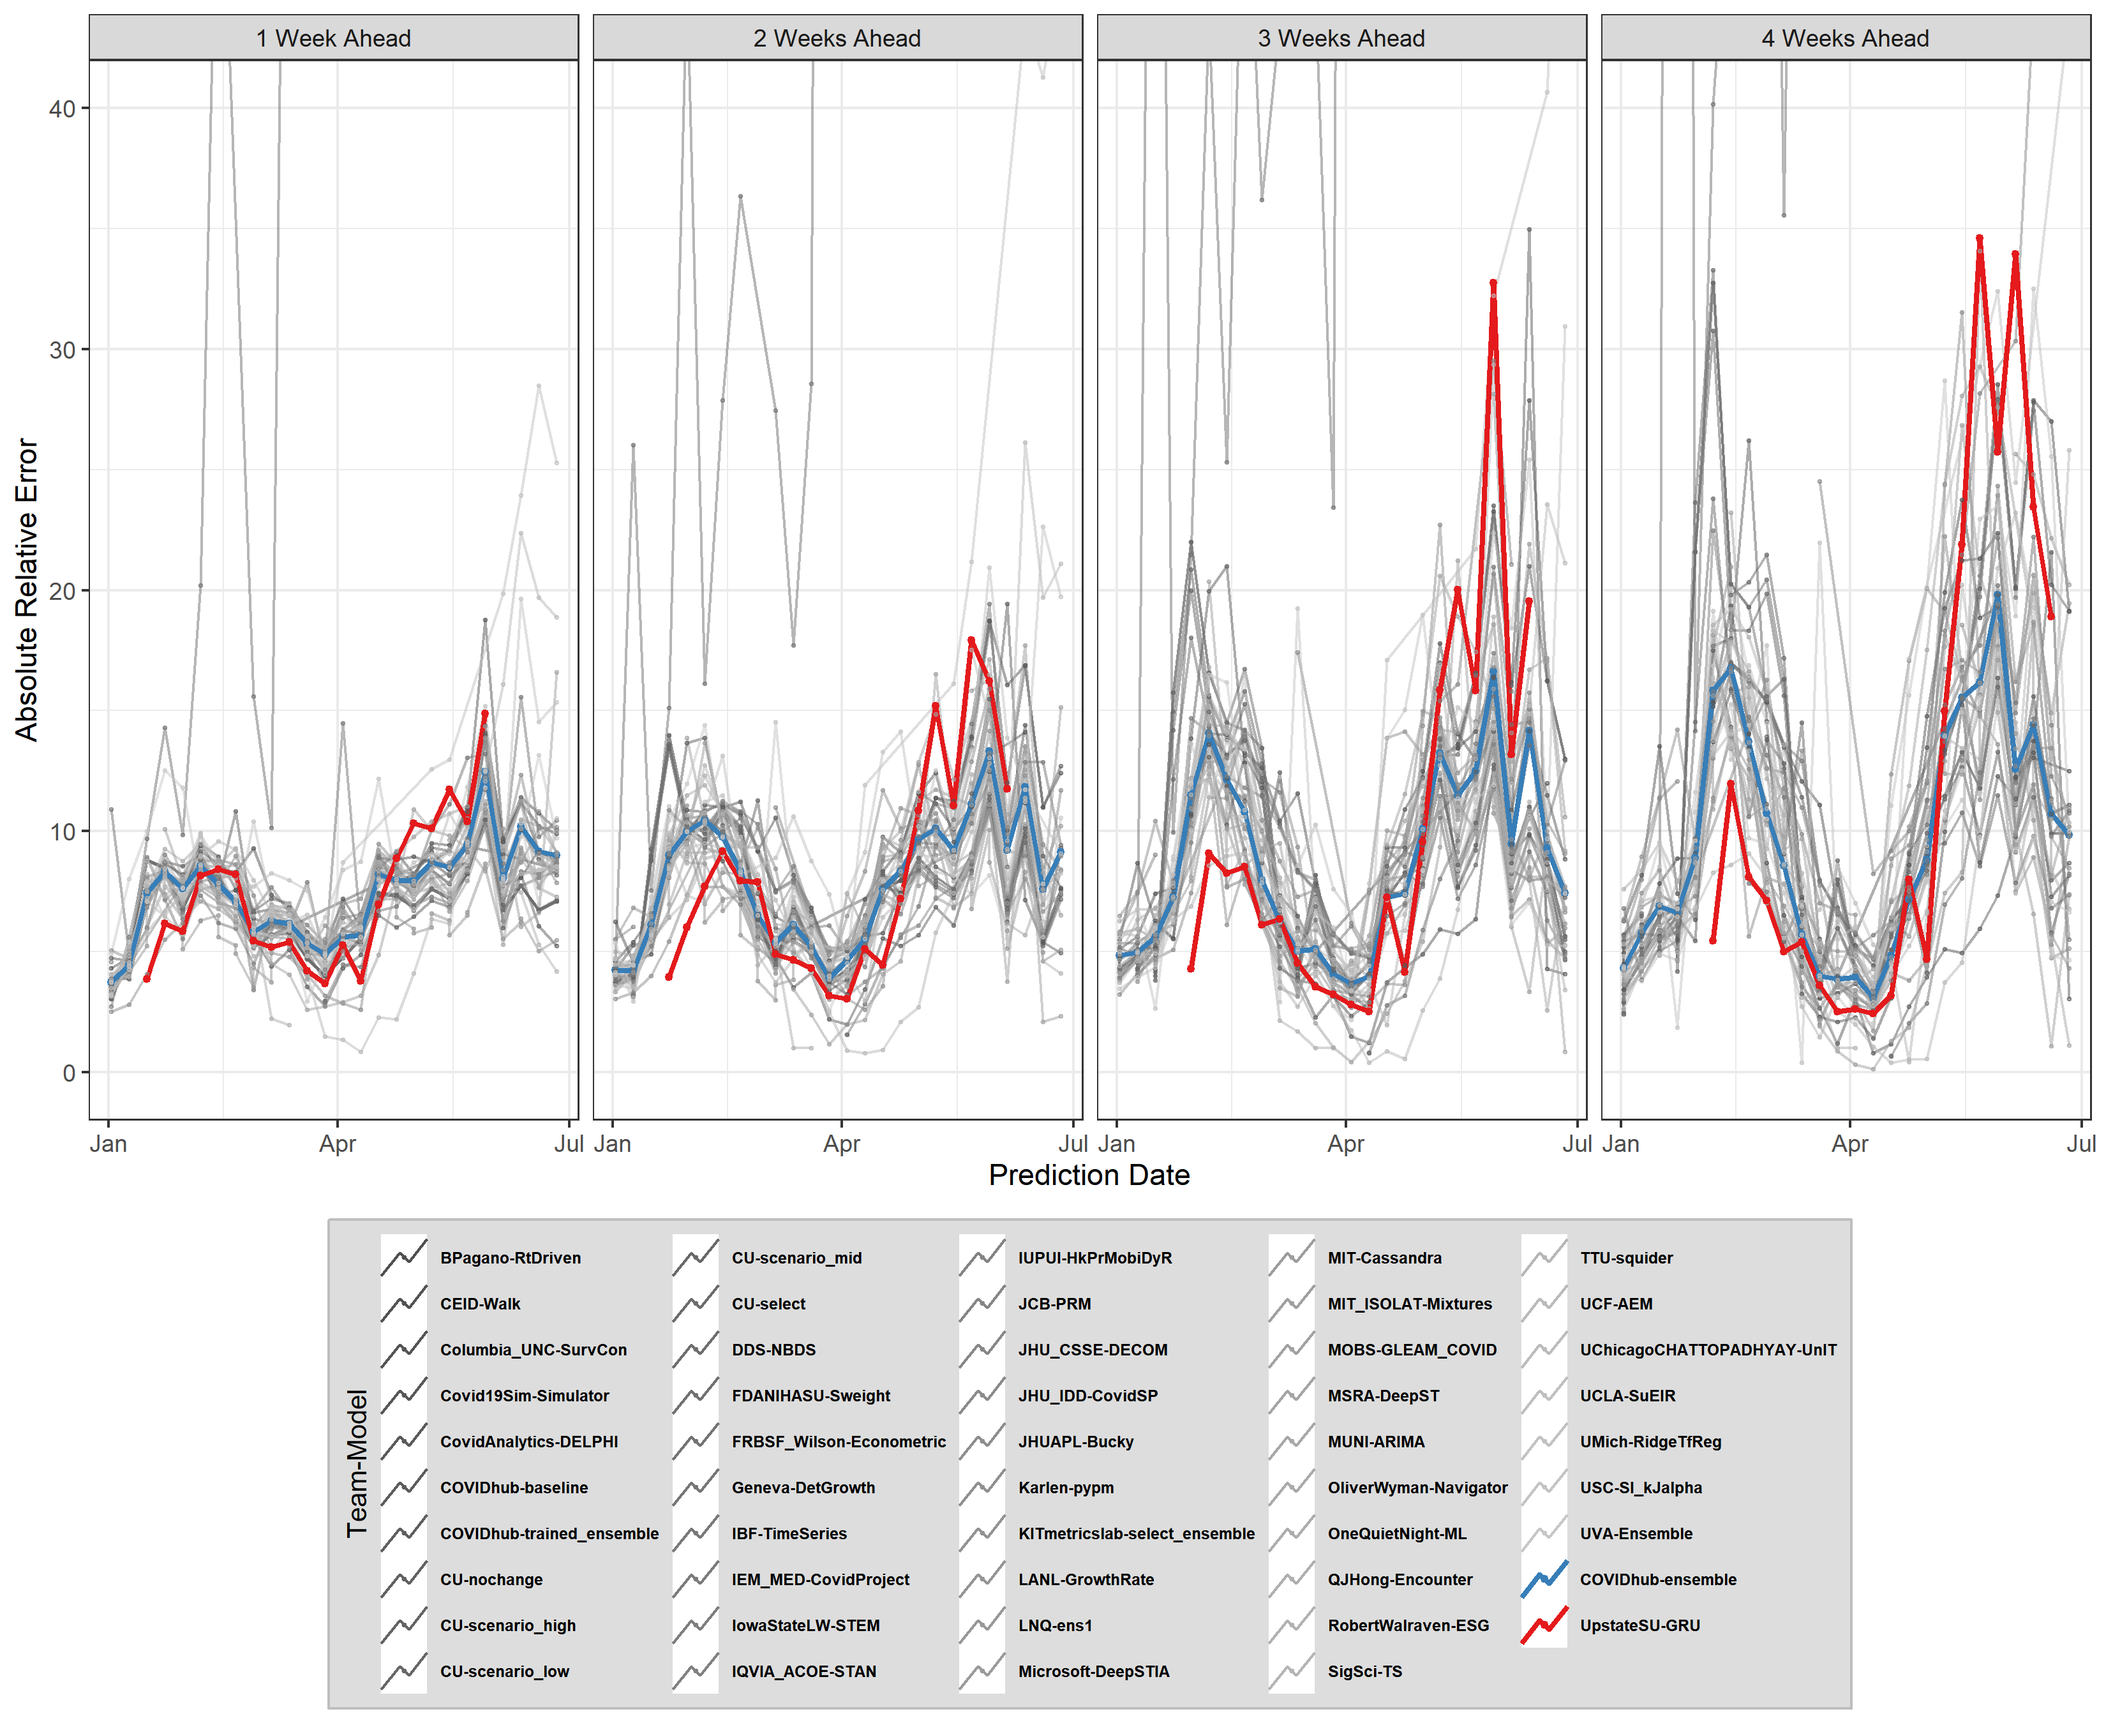
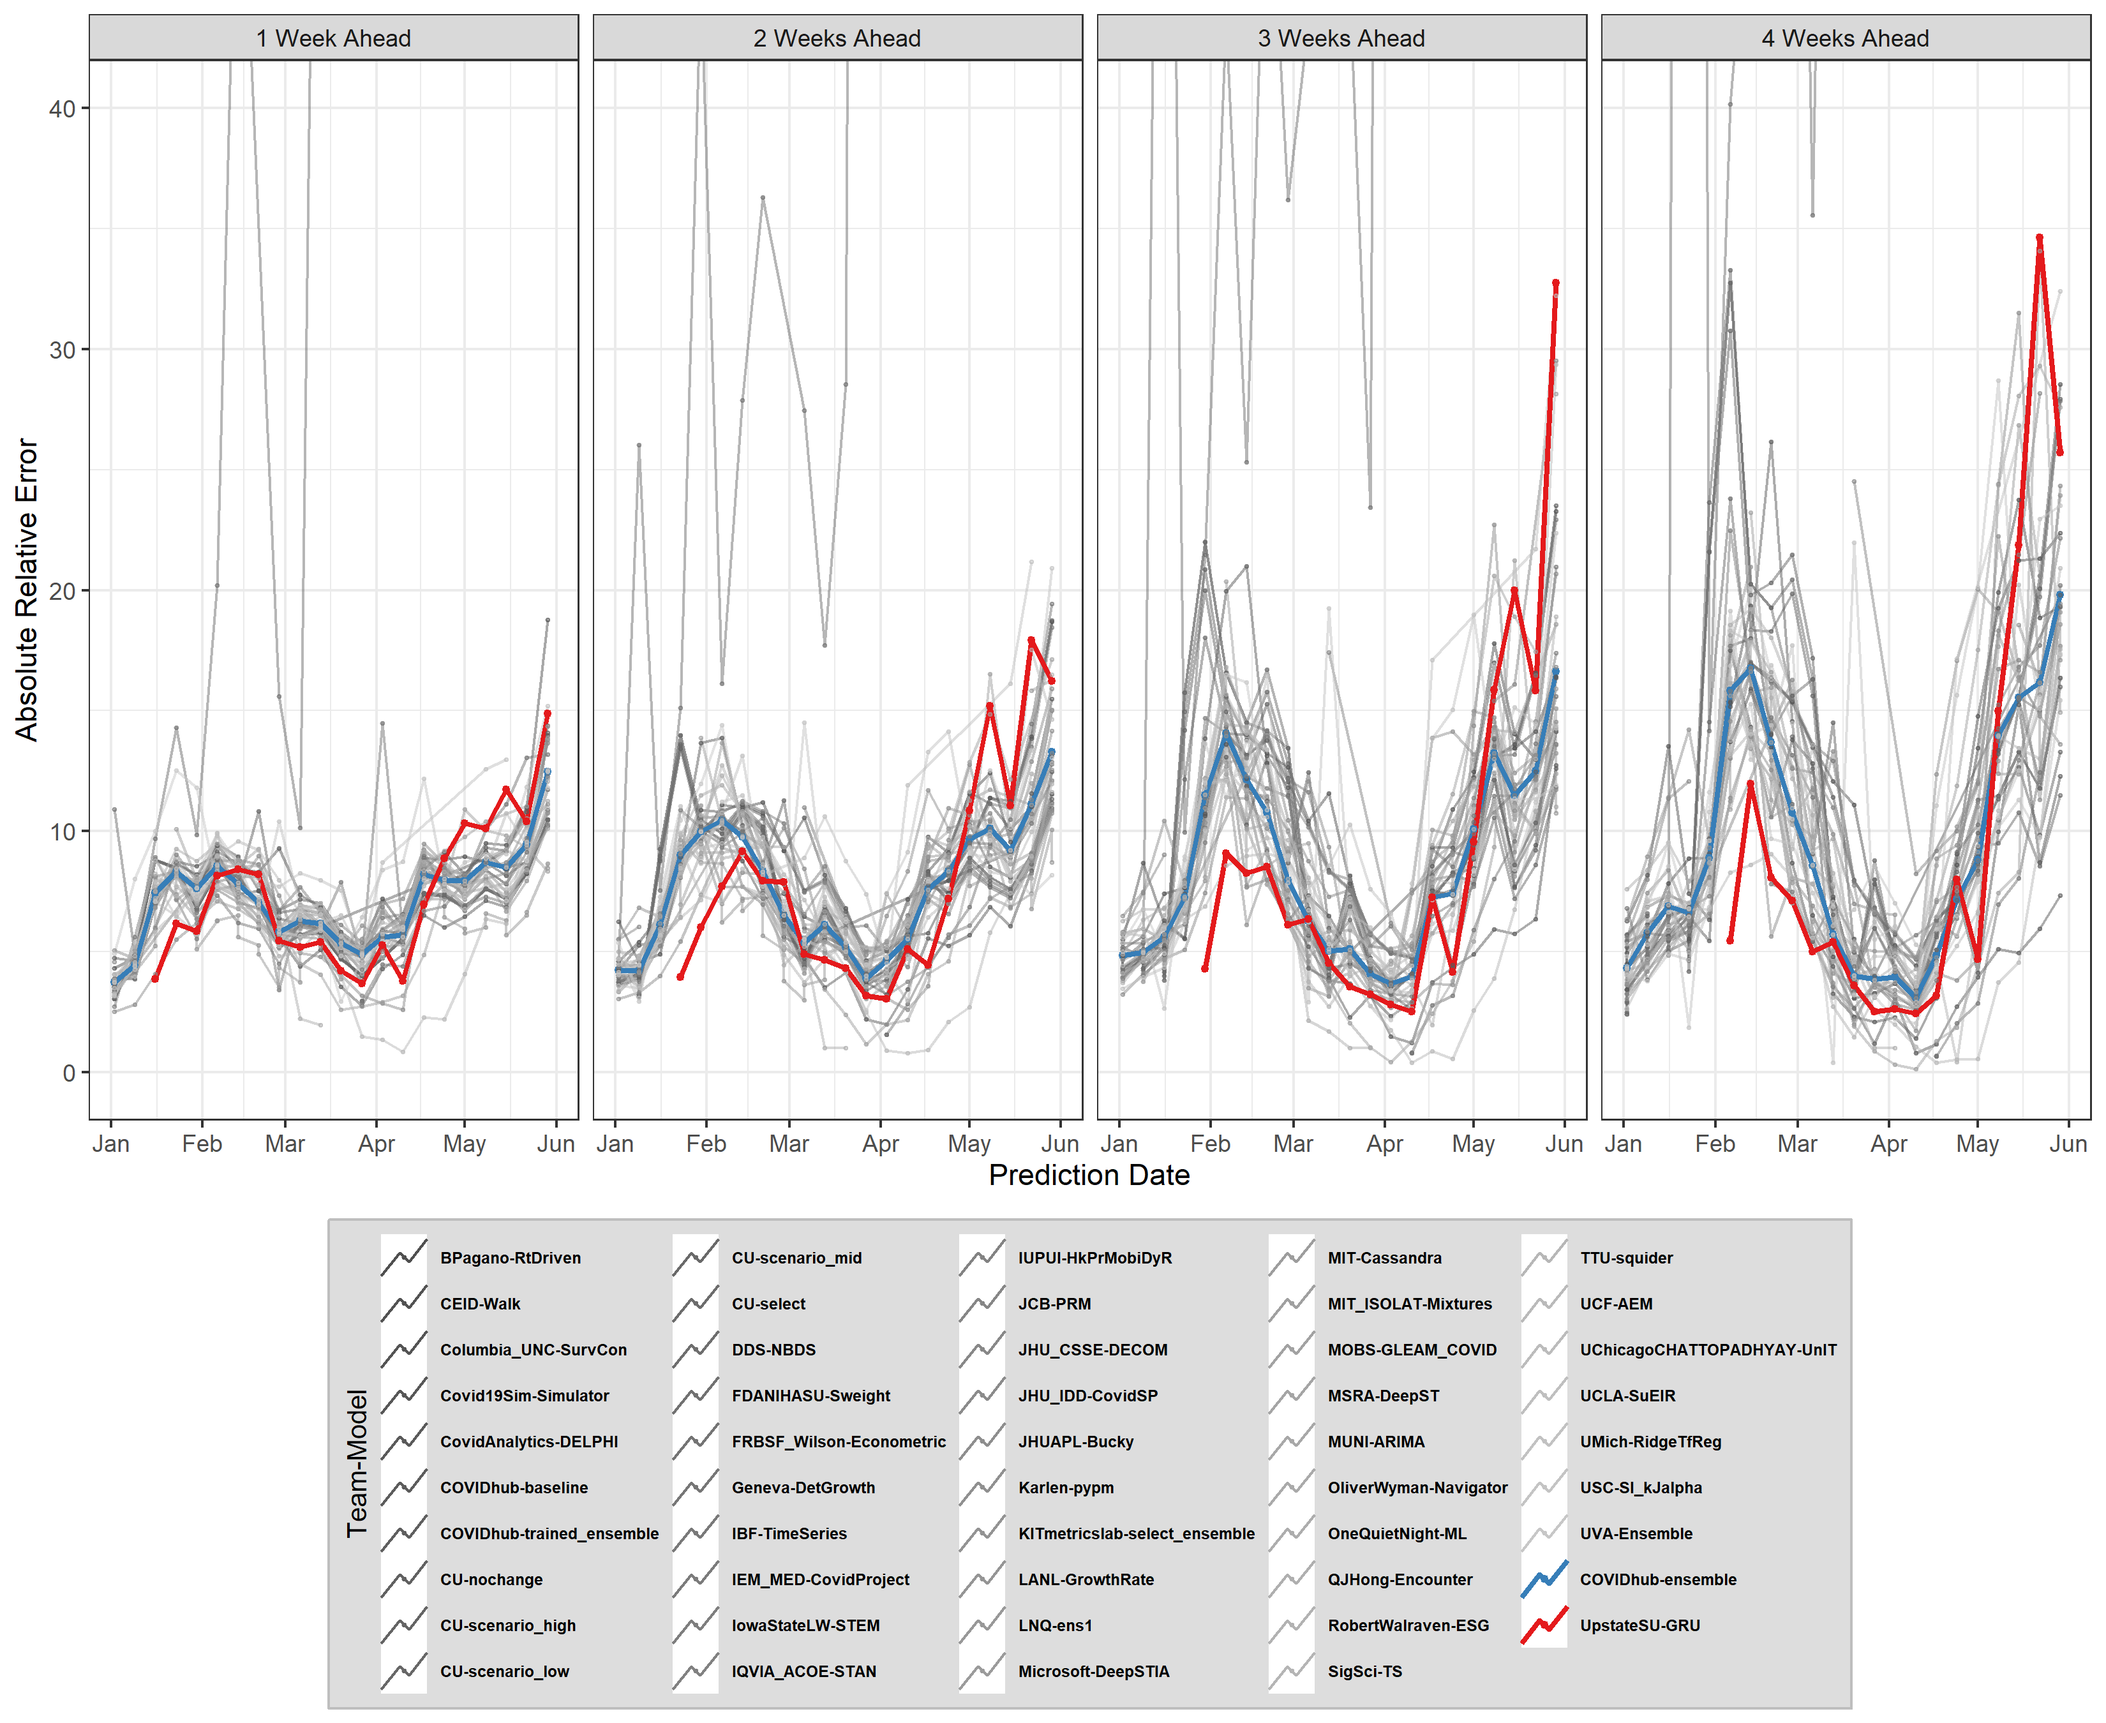
performance charts on homepage

diff --git a/docs/index.md b/docs/index.md
@@ -4,7 +4,15 @@ layout: default
 
 National and county-level COVID-19 forecast using recurrent neural network seq2seq model with the Gated recurrent units (GRU)
 
-View our historical performance [Click Here](https://ylzhang29.github.io/UpstateSU-GRU-Covid/performance)
+### Historical Performance between January 1st, 2021 & May 31st, 2021
+
+##### Prediction of incident cases
+
+![inc-cases](https://raw.githubusercontent.com/ylzhang29/UpstateSU-GRU-Covid/main/docs/trellis-case.png)
+
+##### Prediction of incident deaths
+
+![inc-deaths](https://raw.githubusercontent.com/ylzhang29/UpstateSU-GRU-Covid/main/docs/trellis-death.png)
 
 ### Forecasts: 30 Days Ahead Cases, Deaths and R
 
